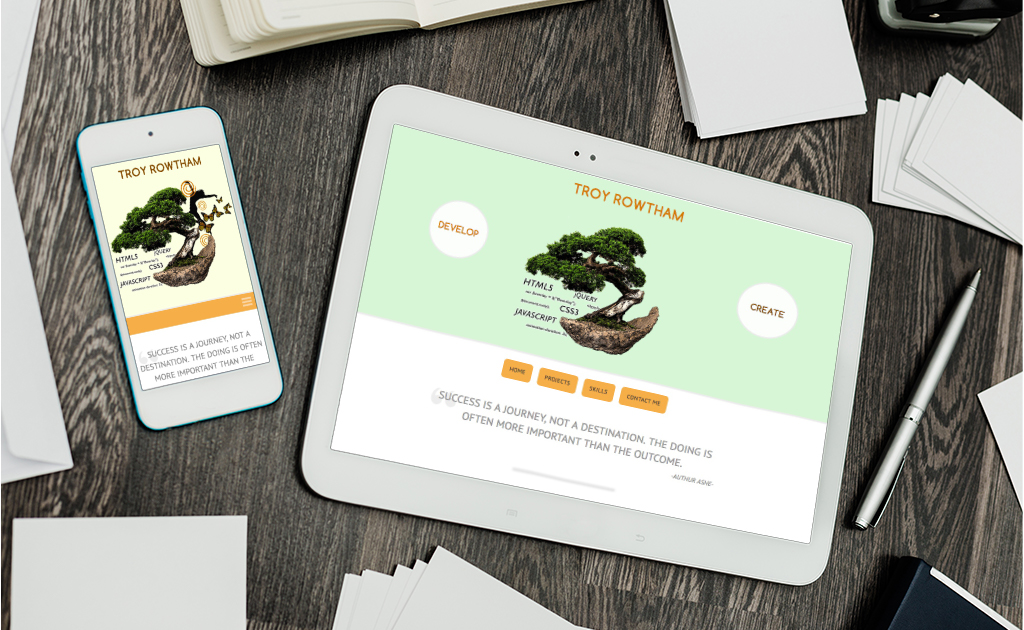
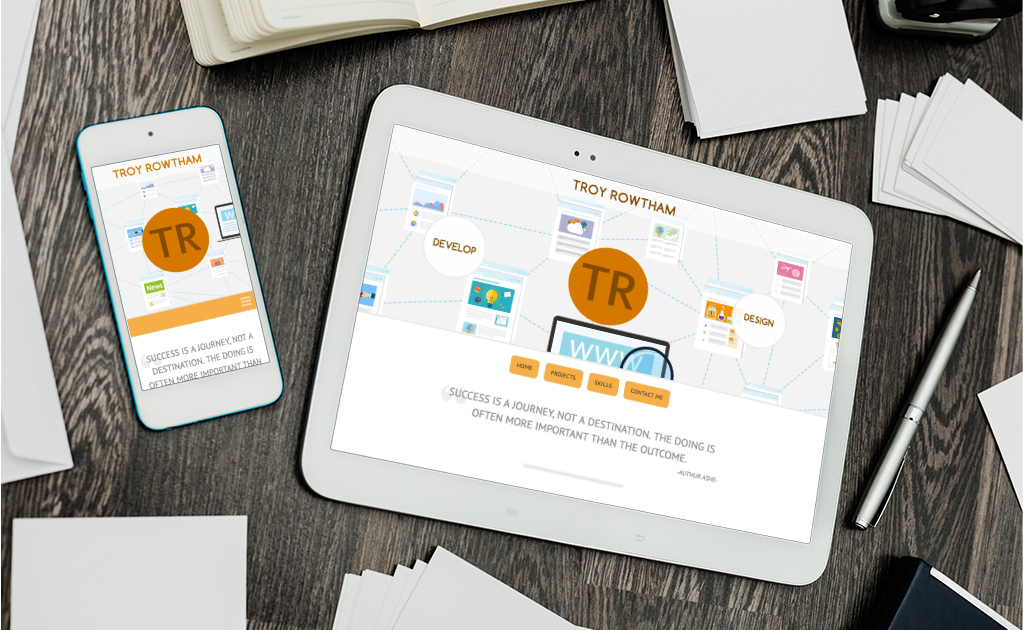
OG poster | Animation interval
- Switched out OG poster to reflect change in header.

- Increased pause on animation interval start

Changed region(s): [[0.3438, 0.181, 0.8438, 0.7841], [0.0938, 0.2413, 0.25, 0.6032], [0.2188, 0.4524, 0.25, 0.4825]]

diff --git a/js/app.min.js b/js/app.min.js
@@ -1,1 +1,1 @@
-var projects=[{name:"Responsive Registration Form",url:"https://webdesignertroy.github.io/techdegree/proj3/",github:"https://github.com/webdesignertroy/Techdegreee-Project-3",description:'This third project challenge from <a href="https://teamtreehouse.com/techdegree" target="_blank">Treehouse\'s Techdegree Program</a> asked students to construct a responsive online form from scratch. I used HTML and CSS to build a mock newsletter contact form consisting of basic input fields from text boxes to pull-down menus.  Validation functions ensure that visitors fill out required fields completely and correctly.  The form comes complete with a reset button.  Although not a fully functioning form, this exercise still taught me the values of considering user experience and accessibility while building a form interface.',preview:"proj3",tech:["html","css","github"]},{name:"Interactive Image Gallery",url:"https://webdesignertroy.github.io/techdegree/proj4/",github:"https://github.com/webdesignertroy/Techdegree-Project-4",description:'This fourth challenging project presented to students by <a href="https://teamtreehouse.com/techdegree" target="_blank">Treehouse\'s Techdegree Program</a> asked students to build an interactive photo gallery complete with lightbox. Students were not allowed to use plugins.  So, it appeared that my introduction to programming would be harrowing to say the least. Armed with JavaScript, jQuery, HTML, CSS and my imagination, I constructed a small thumb image gallery. When a visitor clicks on a thumb image, he or she is presented with an interactive lightbox holding an image or video.',preview:"proj4",tech:["html","css","js","jquery","github"]},{name:"Building Layouts with Sass",url:"https://webdesignertroy.github.io/techdegree/proj5/",github:"https://github.com/webdesignertroy/Techdegree-Project-5",description:'Before <a href="https://teamtreehouse.com/techdegree" target="_blank">Treehouse\'s Techdegree Program</a> introduced this fifth challenge to me, I never even heard of Sass. Now, I see how applications like Sass can be invaluable to a company’s workflow.  The project asked students to refactor a previous project with Sass.  I learned how to break very large scripts into manageable smaller ones.  Sass would work hard to recompile them to ensure an optimal online experience.',preview:"proj5",tech:["html","css","js","jquery","sass","github"]},{name:"HTML5 Video Player",url:"https://webdesignertroy.github.io/techdegree/proj7",github:"https://github.com/webdesignertroy/Techdegree-Project-7",description:'I worked with HTML5 video players before, but never to the degree that <a href="https://teamtreehouse.com/techdegree" target="_blank">Treehouse\'s Techdegree Program</a> requested in this 7th project.  In my introduction to Object-Oriented Programming, the task asked us to create an interactive video interface from a mockup.  Using JavaScript, jQuery, HTML and CSS, I constructed a video player complete with multiple functions such as a progress bar and two variations of closed captions.',preview:"proj7",tech:["html","css","js","jquery","github"]},{name:"Web App Dashboard",url:"https://webdesignertroy.github.io/techdegree/proj9",github:"https://github.com/webdesignertroy/Techdegree-Project-9",description:'The web application challenge given to me by <a href="https://teamtreehouse.com/techdegree" target="_blank">Treehouse\'s Techdegree Program</a> as the 9th project was by far the most challenging.  The course gave students a mockup of a web app that consisted of charts, pop-ups, tables and finally a form and then told us to make it interactive using only JavaScript, jQuery, HTML and CSS.  Specifically, working with a third-party plugin chart maker proved difficult.  Documentation was sparse and explanations by the community was few and wide-spread. But, I met the the challenge with wonderful results and growth.',preview:"proj9",tech:["html","css","js","jquery","github"]},{name:"Public API Gallery",url:"https://webdesignertroy.github.io/techdegree/proj10",github:"https://github.com/webdesignertroy/Techdegree-Project-10",description:"I personally found <a href=\"https://teamtreehouse.com/techdegree\" target=\"_blank\">Treehouse's Techdegree Program's</a> 10th project the most rewarding and useful. Students generated a public API call from at least two sources using only JavaScript, jQuery, HTML and CSS.  Building functional, interactive sites that visitors could actually use was why I started the Program.  This app called on iTunes' and YouTube's APIs to generate a movie and show search library. Results from the API mismatch generates great fun.",preview:"proj10",tech:["html","css","js","jquery","github"]},{name:"General Contractor Site",url:"http://2mgconstruction.com/",github:"",description:"I refactored 2MGconstruction to keep up with mobile requests. The old site was outdated, so I started from scratch. I kept the traditional menu, but augmented it with a pull-down version for mobile devices. I replaced slideshows with image grids to give the visitor upfront choices all at once. I added a review section where <em>happy</em> clients could comment on the work completed by 2MGconstruction.",preview:"wp1",tech:["wordpress","html","css","js","jquery"]},{name:"Writer's Page",url:"http://questionsformrright.com",github:"",description:"Andrea Guzman - Writer's Page was created to promote Andrea's guide to a healthy relationship, <em>20 Questions for Mr. Right</em>. I created a clean, simple design with call-to-action tools and buttons that focused on prodding the visitor to select links to shops where they could purchase the guide. Among the tools was a promotional video in which Andrea discussed why she wrote her guide and why the visitor should buy it. I also provided Andrea with a blog to keep her socially connected to her audience.",preview:"wp2",tech:["wordpress","html","css","js","jquery"]},{name:"Actor's Site",url:"http://jamaicafarewelltheplay.com",github:"",description:'In designing this simple site, I wanted to create a dark, cool theatrical appeal. I went with full-width images that took up the entire screen to mimic the feeling of sitting in an open forum. I kept the navigation simple and the call-to-action abundant in order to focus the visitor on the message we were trying to convey, which was "Buy Tickets." I added an audience review form, a calendar of Upcoming Shows and tried to be very helpful with the information we projected. Besides basic show information, I included a Google map with an option for driving instructions and the ability to add the website calendar information to Google Calendars or iCal.',preview:"wp3",tech:["wordpress","html","css","js","jquery"]}],skillLevel={html:function(){var e=[{value:75,color:"#1d7d8b"},{value:25,color:"#eeeeee"}],t=document.querySelector("#html");skillLevel.drawDoughnutChart(e,t)},css:function(){var e=[{value:85,color:"#de3635"},{value:15,color:"#eeeeee"}],t=document.querySelector("#css");skillLevel.drawDoughnutChart(e,t)},js:function(){var e=[{value:70,color:"#2a73c0"},{value:30,color:"#eeeeee"}],t=document.querySelector("#js");skillLevel.drawDoughnutChart(e,t)},jquery:function(){var e=[{value:65,color:"#802ce6"},{value:35,color:"#eeeeee"}],t=document.querySelector("#jquery");skillLevel.drawDoughnutChart(e,t)},wordpress:function(){var e=[{value:60,color:"#2573be"},{value:40,color:"#eeeeee"}],t=document.querySelector("#wordpress");skillLevel.drawDoughnutChart(e,t)},sass:function(){var e=[{value:55,color:"#1f7e94"},{value:45,color:"#eeeeee"}],t=document.querySelector("#sass");skillLevel.drawDoughnutChart(e,t)},gulp:function(){var e=[{value:50,color:"#de3635"},{value:50,color:"#eeeeee"}],t=document.querySelector("#gulp");skillLevel.drawDoughnutChart(e,t)},github:function(){var e=[{value:60,color:"#1f7e94"},{value:40,color:"#eeeeee"}],t=document.querySelector("#github2");skillLevel.drawDoughnutChart(e,t)},drawDoughnutChart:function(e,t){var o={responsive:!1,segmentShowStroke:!0,segmentStrokeWidth:2,showTooltips:!1,tooltipTemplate:"<%= value %>%",percentageInnerCutout:80},r=t.getContext("2d");new Chart(r).Doughnut(e,o)}};$(document).ready(function(){function e(){k=1,clearInterval(q)}function t(){for(var e="",t=0;t<projects.length;t++)e+='<div class="port-col" data-index="'+t+'">',e+="<h3>"+projects[t].name+"</h3>",e+='<div class="project-preview"><img src="img/projects/thumbs/'+projects[t].preview+'.png" alt=""><span></span></div>',e+="</div>";$(".project-details-dom").html(e)}var o=$("#wrapper"),r=$("#sm-logo"),a=$("#nav"),i=$("#main"),s=$("#main li a"),n=$("#back-top a"),l=$("#menu-reveal"),c=window.matchMedia("all and (max-width: 769px)"),d=0,h=$("#overlay"),u=$('<div id="project-image"></div>'),g=$('<div id="project-details"></div>'),p=$('<div id="project-tech"></div>'),m=$('<div id="cursor-border-left"></div>'),v=$('<div id="cursor-border-right"></div>'),w=$('<div id="arrow-left"></div>'),f=$('<div id="arrow-right"></div>'),b=$('<div id="esc-container"><div id="mobile-escape">Close<span>x</span></div></div>'),y=!1,k=0,j=function(){i.slideUp(700,"swing")},C=function(){i.slideDown(700,"swing")},T=function(e,t){$(this).scrollTop()<424&&0!==t?$("html, body").animate({scrollTop:$(e).offset().top-t-245},500,"swing"):$("html, body").animate({scrollTop:$(e).offset().top-t-48},500,"swing")},I=function(e){p.addClass("transparent"),$(".layout-details").addClass("transparent"),u.addClass("transparent").delay(500).queue(function(t){L(e),u.removeClass("transparent"),p.removeClass("transparent"),$(".layout-details").removeClass("transparent"),t()})},S=function(e){var t=$(window).scrollTop(),o=t+$(window).height(),r=$(e).offset().top,a=r+$(e).height();return r<=o&&a>=t},L=function(e){var t="",o="",r="";$.each(projects,function(a,i){if(e===a){for(t+='<div class="image-details" data-image-index="'+a+'">',t+='<img src="img/projects/'+i.preview+'.jpg"/>',t+="</div>",o+='<div class="layout-details">',o+="<h3>"+i.name+"</h3>",o+='<p class="btn-container">',o+='<a href="'+i.url+'" class="btn" target="_blank">Visit Site</a>',""!==i.github&&(o+='<a href="'+i.github+'" class="btn" target="_blank"> Visit GitHub</a>'),o+="</p>",o+="<p>"+i.description+"</p>",o+="</div>",r+='<div class="layout-skills">',a=0;a<i.tech.length;a++)r+='<div class="badge-container"><div id="'+i.tech[a]+'" class="badge">',r+=i.tech[a],r+="</div><span>"+i.tech[a]+"</span></div>";r+="</div>"}document.getElementById("project-tech").innerHTML=r,document.getElementById("project-image").innerHTML=t,document.getElementById("project-details").innerHTML=o})},q=setInterval(e,1e3);s.on("click",function(e){e.preventDefault();var t=$(this).attr("href");T(t,0),c.matches&&j(),T(t,d)}),n.on("click",function(e){e.preventDefault();var t=$(this).attr("href");c.matches&&j(),T(t,d)}),c.matches?(l.show(),i.hide(),d=s.length):(l.hide(),d=0),l.on("click",function(){"none"===i.css("display")?C():j()}),c.addListener(function(e){e.matches?(l.show(),i.hide(),d=s.length):(l.hide(),i.show(),d=0)}),$(window).height()!==$(document).height()&&$(window).on("scroll",function(){var e=$(this).scrollTop();e>440?(a.addClass("fix-menu"),o.addClass("add-lost-height"),$("#back-top").removeClass("hide-div"),r.addClass("show-logo")):(a.removeClass("fix-menu"),o.removeClass("add-lost-height"),$("#back-top").addClass("hide-div"),r.removeClass("show-logo"))}),$(window).height()!==$(document).height()&&$(window).on("scroll",function(){var e=$(this).scrollTop();e>200?$("#back-top").addClass("fade-in"):$("#back-top").removeClass("fade-in")}),navigator.userAgent.match(/Trident\/7\./)||/Edge/.test(navigator.userAgent)?($("#svg-alternative").removeClass("hide-img"),$("#logo").addClass("hide-svg")):($("#logo").removeClass("hide-svg"),$("#svg-alternative").addClass("hide-img")),$("#left-trigger").mouseenter(function(){1===k&&($("#develop-bg").removeClass("reveal-left"),$("#header").addClass("red"),$("#create-mobile-svg").addClass("fade-out"))}),$("#left-trigger").mouseleave(function(){1===k&&($("#develop-bg").addClass("reveal-left"),$("#header").removeClass("red"),$("#create-mobile-svg").removeClass("fade-out"))}),$("#right-trigger").mouseenter(function(){1===k&&($("#create-bg").removeClass("reveal-right"),$("#header").addClass("blue"),$("#create-mobile-svg").addClass("fade-out"))}),$("#right-trigger").mouseleave(function(){1===k&&($("#create-bg").addClass("reveal-right"),$("#header").removeClass("blue"),$("#create-mobile-svg").removeClass("fade-out"))}),t(),$(".project-details-dom").on("click",".port-col",function(){var e=parseInt($(this).attr("data-index"));u.appendTo(h),h.addClass("show"),g.appendTo(o),p.appendTo(o),m.appendTo(o),v.appendTo(o),f.appendTo(o),w.appendTo(o),b.appendTo(o),L(e),h.animate({opacity:1},500),g.animate({opacity:1},500),p.animate({opacity:1},500)}),h.on("click",function(){g.animate({opacity:0},500),p.animate({opacity:0},500),h.animate({opacity:0},500,function(){h.removeClass("show"),g.remove(),p.remove(),v.remove(),m.remove(),f.remove(),w.remove(),b.remove()})}),o.on("click","#mobile-escape",function(){h.trigger("click")}),o.on("click","#arrow-right",function(){var e=parseInt($(".image-details").attr("data-image-index"));if(e<projects.length-1){var t=e+1;I(t)}else{var t=0;I(t)}}),o.on("click","#arrow-left",function(){var e=parseInt($(".image-details").attr("data-image-index"));if(e>0){var t=e-1;I(t)}else{var t=projects.length-1;I(t)}}),$(this).keyup(function(e){"use strict";switch(e.keyCode){case 27:h.trigger("click");break;case 37:$("#arrow-left").trigger("click");break;case 39:$("#arrow-right").trigger("click")}}),$(window).scroll(function(){S("#html")&&y===!1&&(y=!0,skillLevel.html(),skillLevel.css(),skillLevel.js(),skillLevel.jquery(),skillLevel.wordpress(),skillLevel.sass(),skillLevel.gulp(),skillLevel.github())})});
+var projects=[{name:"Responsive Registration Form",url:"https://webdesignertroy.github.io/techdegree/proj3/",github:"https://github.com/webdesignertroy/Techdegreee-Project-3",description:'This third project challenge from <a href="https://teamtreehouse.com/techdegree" target="_blank">Treehouse\'s Techdegree Program</a> asked students to construct a responsive online form from scratch. I used HTML and CSS to build a mock newsletter contact form consisting of basic input fields from text boxes to pull-down menus.  Validation functions ensure that visitors fill out required fields completely and correctly.  The form comes complete with a reset button.  Although not a fully functioning form, this exercise still taught me the values of considering user experience and accessibility while building a form interface.',preview:"proj3",tech:["html","css","github"]},{name:"Interactive Image Gallery",url:"https://webdesignertroy.github.io/techdegree/proj4/",github:"https://github.com/webdesignertroy/Techdegree-Project-4",description:'This fourth challenging project presented to students by <a href="https://teamtreehouse.com/techdegree" target="_blank">Treehouse\'s Techdegree Program</a> asked students to build an interactive photo gallery complete with lightbox. Students were not allowed to use plugins.  So, it appeared that my introduction to programming would be harrowing to say the least. Armed with JavaScript, jQuery, HTML, CSS and my imagination, I constructed a small thumb image gallery. When a visitor clicks on a thumb image, he or she is presented with an interactive lightbox holding an image or video.',preview:"proj4",tech:["html","css","js","jquery","github"]},{name:"Building Layouts with Sass",url:"https://webdesignertroy.github.io/techdegree/proj5/",github:"https://github.com/webdesignertroy/Techdegree-Project-5",description:'Before <a href="https://teamtreehouse.com/techdegree" target="_blank">Treehouse\'s Techdegree Program</a> introduced this fifth challenge to me, I never even heard of Sass. Now, I see how applications like Sass can be invaluable to a company’s workflow.  The project asked students to refactor a previous project with Sass.  I learned how to break very large scripts into manageable smaller ones.  Sass would work hard to recompile them to ensure an optimal online experience.',preview:"proj5",tech:["html","css","js","jquery","sass","github"]},{name:"HTML5 Video Player",url:"https://webdesignertroy.github.io/techdegree/proj7",github:"https://github.com/webdesignertroy/Techdegree-Project-7",description:'I worked with HTML5 video players before, but never to the degree that <a href="https://teamtreehouse.com/techdegree" target="_blank">Treehouse\'s Techdegree Program</a> requested in this 7th project.  In my introduction to Object-Oriented Programming, the task asked us to create an interactive video interface from a mockup.  Using JavaScript, jQuery, HTML and CSS, I constructed a video player complete with multiple functions such as a progress bar and two variations of closed captions.',preview:"proj7",tech:["html","css","js","jquery","github"]},{name:"Web App Dashboard",url:"https://webdesignertroy.github.io/techdegree/proj9",github:"https://github.com/webdesignertroy/Techdegree-Project-9",description:'The web application challenge given to me by <a href="https://teamtreehouse.com/techdegree" target="_blank">Treehouse\'s Techdegree Program</a> as the 9th project was by far the most challenging.  The course gave students a mockup of a web app that consisted of charts, pop-ups, tables and finally a form and then told us to make it interactive using only JavaScript, jQuery, HTML and CSS.  Specifically, working with a third-party plugin chart maker proved difficult.  Documentation was sparse and explanations by the community was few and wide-spread. But, I met the the challenge with wonderful results and growth.',preview:"proj9",tech:["html","css","js","jquery","github"]},{name:"Public API Gallery",url:"https://webdesignertroy.github.io/techdegree/proj10",github:"https://github.com/webdesignertroy/Techdegree-Project-10",description:"I personally found <a href=\"https://teamtreehouse.com/techdegree\" target=\"_blank\">Treehouse's Techdegree Program's</a> 10th project the most rewarding and useful. Students generated a public API call from at least two sources using only JavaScript, jQuery, HTML and CSS.  Building functional, interactive sites that visitors could actually use was why I started the Program.  This app called on iTunes' and YouTube's APIs to generate a movie and show search library. Results from the API mismatch generates great fun.",preview:"proj10",tech:["html","css","js","jquery","github"]},{name:"General Contractor Site",url:"http://2mgconstruction.com/",github:"",description:"I refactored 2MGconstruction to keep up with mobile requests. The old site was outdated, so I started from scratch. I kept the traditional menu, but augmented it with a pull-down version for mobile devices. I replaced slideshows with image grids to give the visitor upfront choices all at once. I added a review section where <em>happy</em> clients could comment on the work completed by 2MGconstruction.",preview:"wp1",tech:["wordpress","html","css","js","jquery"]},{name:"Writer's Page",url:"http://questionsformrright.com",github:"",description:"Andrea Guzman - Writer's Page was created to promote Andrea's guide to a healthy relationship, <em>20 Questions for Mr. Right</em>. I created a clean, simple design with call-to-action tools and buttons that focused on prodding the visitor to select links to shops where they could purchase the guide. Among the tools was a promotional video in which Andrea discussed why she wrote her guide and why the visitor should buy it. I also provided Andrea with a blog to keep her socially connected to her audience.",preview:"wp2",tech:["wordpress","html","css","js","jquery"]},{name:"Actor's Site",url:"http://jamaicafarewelltheplay.com",github:"",description:'In designing this simple site, I wanted to create a dark, cool theatrical appeal. I went with full-width images that took up the entire screen to mimic the feeling of sitting in an open forum. I kept the navigation simple and the call-to-action abundant in order to focus the visitor on the message we were trying to convey, which was "Buy Tickets." I added an audience review form, a calendar of Upcoming Shows and tried to be very helpful with the information we projected. Besides basic show information, I included a Google map with an option for driving instructions and the ability to add the website calendar information to Google Calendars or iCal.',preview:"wp3",tech:["wordpress","html","css","js","jquery"]}],skillLevel={html:function(){var e=[{value:75,color:"#1d7d8b"},{value:25,color:"#eeeeee"}],t=document.querySelector("#html");skillLevel.drawDoughnutChart(e,t)},css:function(){var e=[{value:85,color:"#de3635"},{value:15,color:"#eeeeee"}],t=document.querySelector("#css");skillLevel.drawDoughnutChart(e,t)},js:function(){var e=[{value:70,color:"#2a73c0"},{value:30,color:"#eeeeee"}],t=document.querySelector("#js");skillLevel.drawDoughnutChart(e,t)},jquery:function(){var e=[{value:65,color:"#802ce6"},{value:35,color:"#eeeeee"}],t=document.querySelector("#jquery");skillLevel.drawDoughnutChart(e,t)},wordpress:function(){var e=[{value:60,color:"#2573be"},{value:40,color:"#eeeeee"}],t=document.querySelector("#wordpress");skillLevel.drawDoughnutChart(e,t)},sass:function(){var e=[{value:55,color:"#1f7e94"},{value:45,color:"#eeeeee"}],t=document.querySelector("#sass");skillLevel.drawDoughnutChart(e,t)},gulp:function(){var e=[{value:50,color:"#de3635"},{value:50,color:"#eeeeee"}],t=document.querySelector("#gulp");skillLevel.drawDoughnutChart(e,t)},github:function(){var e=[{value:60,color:"#1f7e94"},{value:40,color:"#eeeeee"}],t=document.querySelector("#github2");skillLevel.drawDoughnutChart(e,t)},drawDoughnutChart:function(e,t){var o={responsive:!1,segmentShowStroke:!0,segmentStrokeWidth:2,showTooltips:!1,tooltipTemplate:"<%= value %>%",percentageInnerCutout:80},r=t.getContext("2d");new Chart(r).Doughnut(e,o)}};$(document).ready(function(){function e(){k=1,clearInterval(q)}function t(){for(var e="",t=0;t<projects.length;t++)e+='<div class="port-col" data-index="'+t+'">',e+="<h3>"+projects[t].name+"</h3>",e+='<div class="project-preview"><img src="img/projects/thumbs/'+projects[t].preview+'.png" alt=""><span></span></div>',e+="</div>";$(".project-details-dom").html(e)}var o=$("#wrapper"),r=$("#sm-logo"),a=$("#nav"),i=$("#main"),s=$("#main li a"),n=$("#back-top a"),l=$("#menu-reveal"),c=window.matchMedia("all and (max-width: 769px)"),d=0,h=$("#overlay"),u=$('<div id="project-image"></div>'),g=$('<div id="project-details"></div>'),p=$('<div id="project-tech"></div>'),m=$('<div id="cursor-border-left"></div>'),v=$('<div id="cursor-border-right"></div>'),w=$('<div id="arrow-left"></div>'),f=$('<div id="arrow-right"></div>'),b=$('<div id="esc-container"><div id="mobile-escape">Close<span>x</span></div></div>'),y=!1,k=0,j=function(){i.slideUp(700,"swing")},C=function(){i.slideDown(700,"swing")},T=function(e,t){$(this).scrollTop()<424&&0!==t?$("html, body").animate({scrollTop:$(e).offset().top-t-245},500,"swing"):$("html, body").animate({scrollTop:$(e).offset().top-t-48},500,"swing")},I=function(e){p.addClass("transparent"),$(".layout-details").addClass("transparent"),u.addClass("transparent").delay(500).queue(function(t){L(e),u.removeClass("transparent"),p.removeClass("transparent"),$(".layout-details").removeClass("transparent"),t()})},S=function(e){var t=$(window).scrollTop(),o=t+$(window).height(),r=$(e).offset().top,a=r+$(e).height();return r<=o&&a>=t},L=function(e){var t="",o="",r="";$.each(projects,function(a,i){if(e===a){for(t+='<div class="image-details" data-image-index="'+a+'">',t+='<img src="img/projects/'+i.preview+'.jpg"/>',t+="</div>",o+='<div class="layout-details">',o+="<h3>"+i.name+"</h3>",o+='<p class="btn-container">',o+='<a href="'+i.url+'" class="btn" target="_blank">Visit Site</a>',""!==i.github&&(o+='<a href="'+i.github+'" class="btn" target="_blank"> Visit GitHub</a>'),o+="</p>",o+="<p>"+i.description+"</p>",o+="</div>",r+='<div class="layout-skills">',a=0;a<i.tech.length;a++)r+='<div class="badge-container"><div id="'+i.tech[a]+'" class="badge">',r+=i.tech[a],r+="</div><span>"+i.tech[a]+"</span></div>";r+="</div>"}document.getElementById("project-tech").innerHTML=r,document.getElementById("project-image").innerHTML=t,document.getElementById("project-details").innerHTML=o})},q=setInterval(e,3e3);s.on("click",function(e){e.preventDefault();var t=$(this).attr("href");T(t,0),c.matches&&j(),T(t,d)}),n.on("click",function(e){e.preventDefault();var t=$(this).attr("href");c.matches&&j(),T(t,d)}),c.matches?(l.show(),i.hide(),d=s.length):(l.hide(),d=0),l.on("click",function(){"none"===i.css("display")?C():j()}),c.addListener(function(e){e.matches?(l.show(),i.hide(),d=s.length):(l.hide(),i.show(),d=0)}),$(window).height()!==$(document).height()&&$(window).on("scroll",function(){var e=$(this).scrollTop();e>440?(a.addClass("fix-menu"),o.addClass("add-lost-height"),$("#back-top").removeClass("hide-div"),r.addClass("show-logo")):(a.removeClass("fix-menu"),o.removeClass("add-lost-height"),$("#back-top").addClass("hide-div"),r.removeClass("show-logo"))}),$(window).height()!==$(document).height()&&$(window).on("scroll",function(){var e=$(this).scrollTop();e>200?$("#back-top").addClass("fade-in"):$("#back-top").removeClass("fade-in")}),navigator.userAgent.match(/Trident\/7\./)||/Edge/.test(navigator.userAgent)?($("#svg-alternative").removeClass("hide-img"),$("#logo").addClass("hide-svg")):($("#logo").removeClass("hide-svg"),$("#svg-alternative").addClass("hide-img")),$("#left-trigger").mouseenter(function(){1===k&&($("#develop-bg").removeClass("reveal-left"),$("#header").addClass("red"),$("#create-mobile-svg").addClass("fade-out"))}),$("#left-trigger").mouseleave(function(){1===k&&($("#develop-bg").addClass("reveal-left"),$("#header").removeClass("red"),$("#create-mobile-svg").removeClass("fade-out"))}),$("#right-trigger").mouseenter(function(){1===k&&($("#create-bg").removeClass("reveal-right"),$("#header").addClass("blue"),$("#create-mobile-svg").addClass("fade-out"))}),$("#right-trigger").mouseleave(function(){1===k&&($("#create-bg").addClass("reveal-right"),$("#header").removeClass("blue"),$("#create-mobile-svg").removeClass("fade-out"))}),t(),$(".project-details-dom").on("click",".port-col",function(){var e=parseInt($(this).attr("data-index"));u.appendTo(h),h.addClass("show"),g.appendTo(o),p.appendTo(o),m.appendTo(o),v.appendTo(o),f.appendTo(o),w.appendTo(o),b.appendTo(o),L(e),h.animate({opacity:1},500),g.animate({opacity:1},500),p.animate({opacity:1},500)}),h.on("click",function(){g.animate({opacity:0},500),p.animate({opacity:0},500),h.animate({opacity:0},500,function(){h.removeClass("show"),g.remove(),p.remove(),v.remove(),m.remove(),f.remove(),w.remove(),b.remove()})}),o.on("click","#mobile-escape",function(){h.trigger("click")}),o.on("click","#arrow-right",function(){var e=parseInt($(".image-details").attr("data-image-index"));if(e<projects.length-1){var t=e+1;I(t)}else{var t=0;I(t)}}),o.on("click","#arrow-left",function(){var e=parseInt($(".image-details").attr("data-image-index"));if(e>0){var t=e-1;I(t)}else{var t=projects.length-1;I(t)}}),$(this).keyup(function(e){"use strict";switch(e.keyCode){case 27:h.trigger("click");break;case 37:$("#arrow-left").trigger("click");break;case 39:$("#arrow-right").trigger("click")}}),$(window).scroll(function(){S("#html")&&y===!1&&(y=!0,skillLevel.html(),skillLevel.css(),skillLevel.js(),skillLevel.jquery(),skillLevel.wordpress(),skillLevel.sass(),skillLevel.gulp(),skillLevel.github())})});

diff --git a/js/app.js b/js/app.js
@@ -326,7 +326,7 @@ $(document).ready(function(){
 		FUNCTION DECLARATIONS
 	*************************/	
 	// Function: Don't start interactive backgrounds automatically
-	var preLoadTimer = setInterval(startEvent, 1000);
+	var preLoadTimer = setInterval(startEvent, 3000);
 	
 	function startEvent() {
 		preLoadTime = 1;

diff --git a/js/main.js b/js/main.js
@@ -123,7 +123,7 @@ $(document).ready(function(){
 		FUNCTION DECLARATIONS
 	*************************/	
 	// Function: Don't start interactive backgrounds automatically
-	var preLoadTimer = setInterval(startEvent, 1000);
+	var preLoadTimer = setInterval(startEvent, 3000);
 	
 	function startEvent() {
 		preLoadTime = 1;
